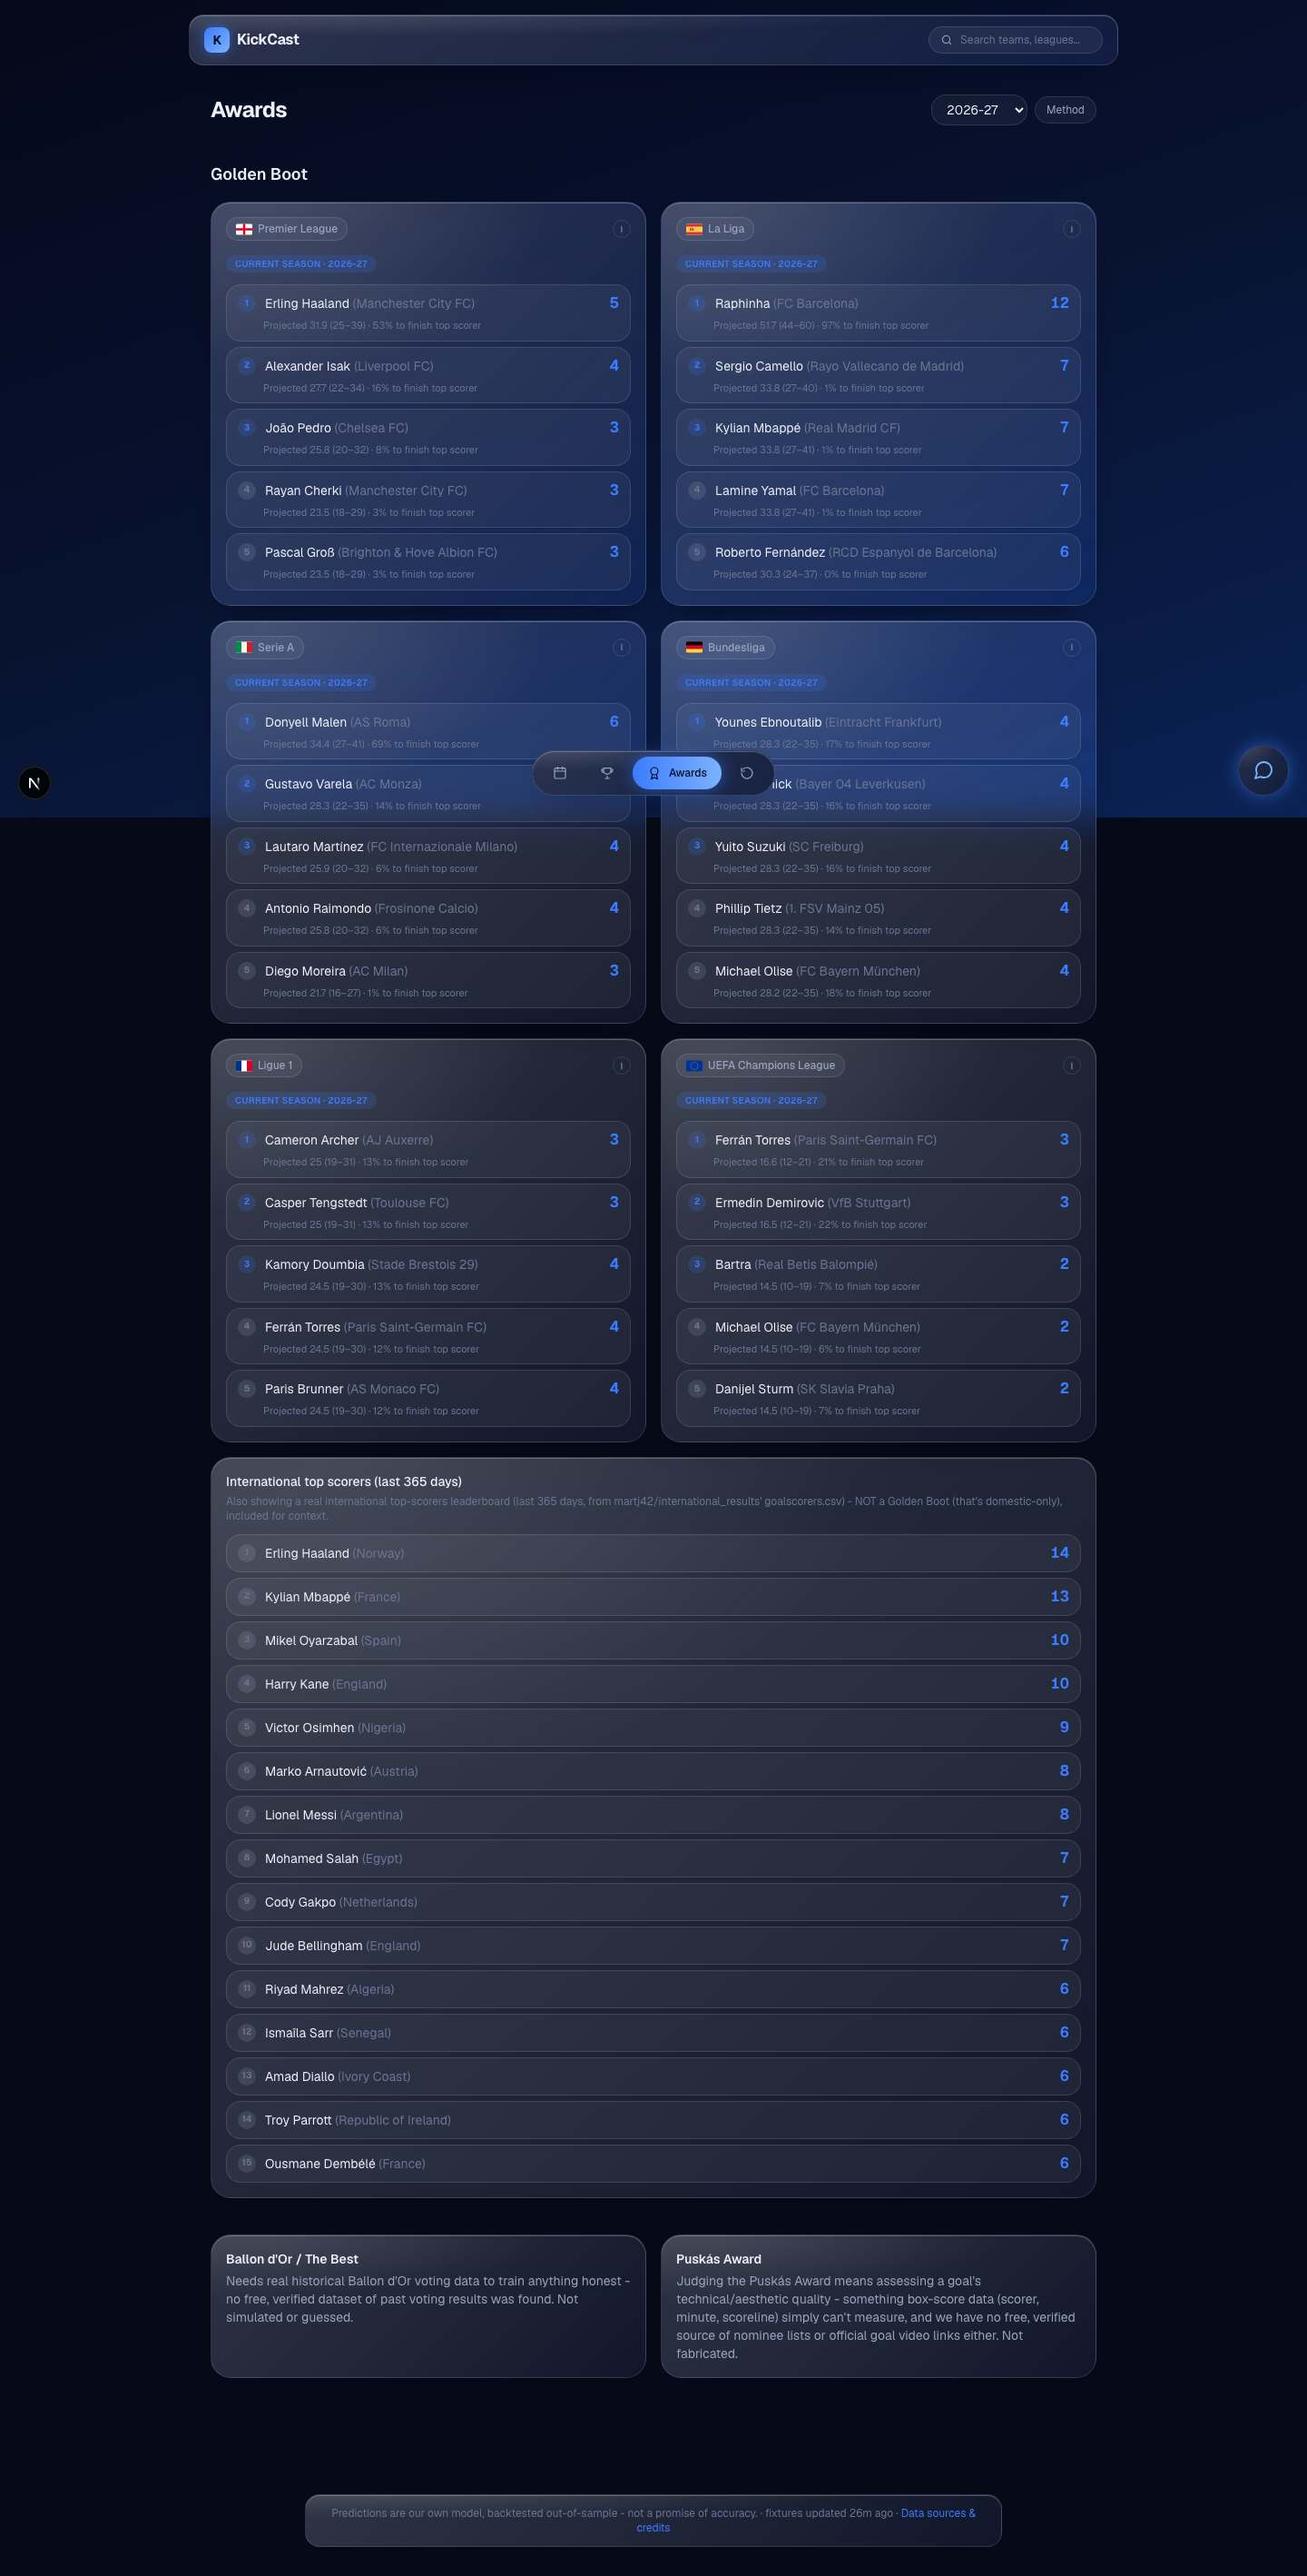
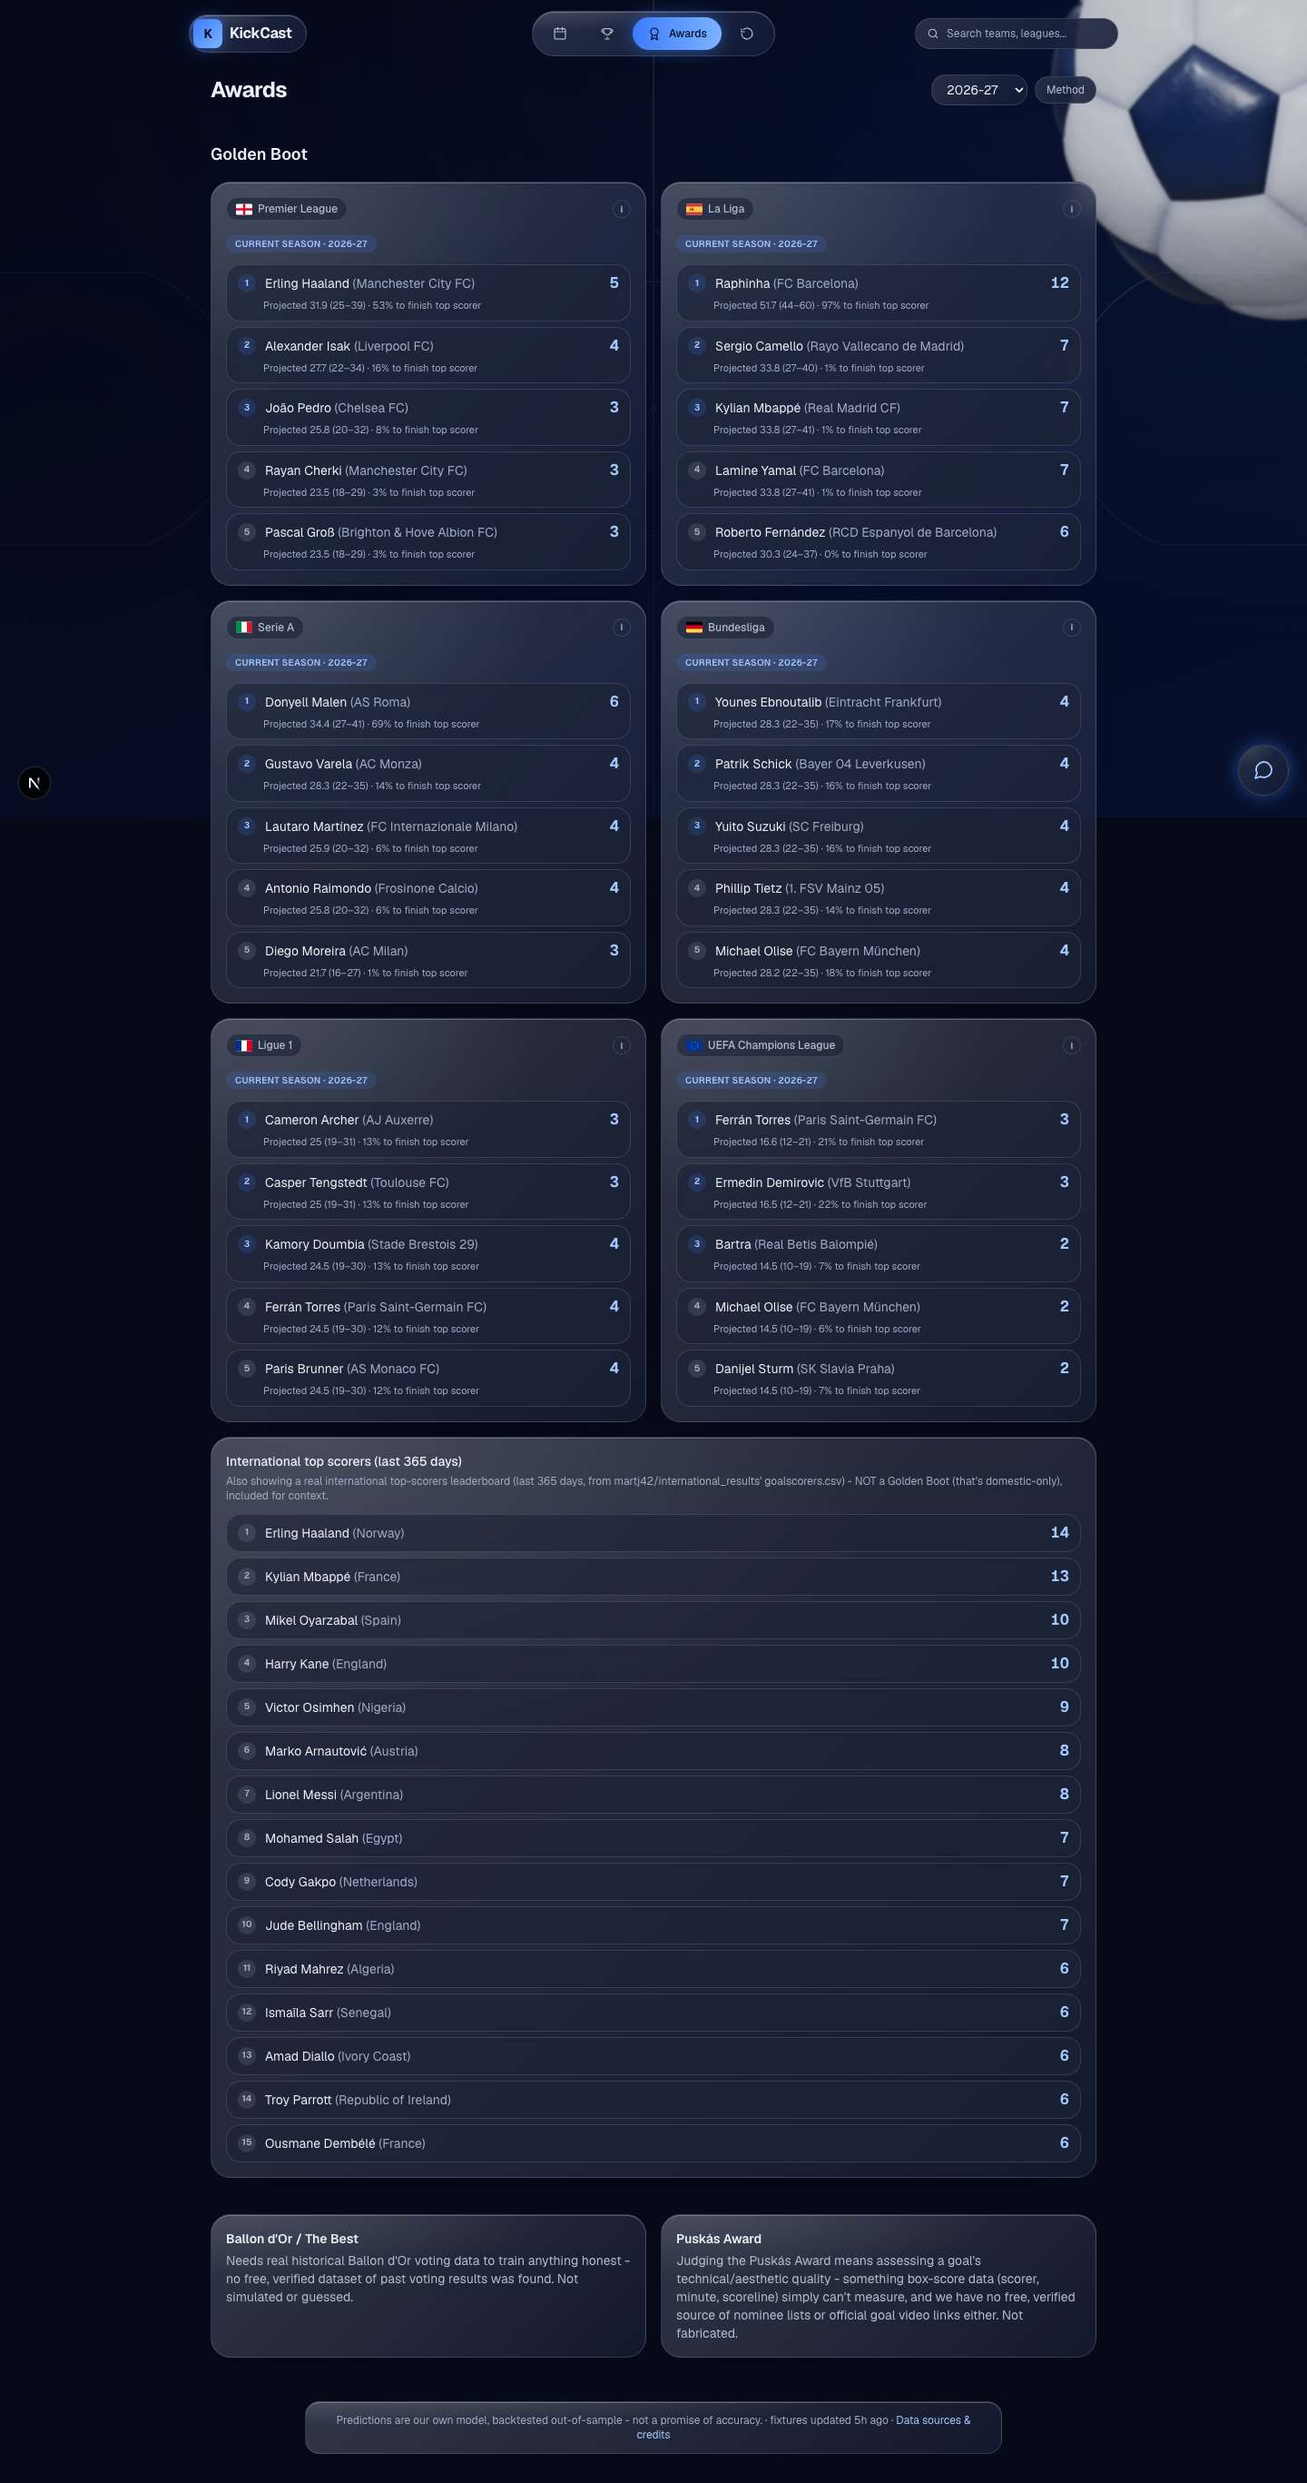
QA: refreshed screenshots with the 3D ball, hermetic replay tests, MORNING_REPORT session 6
- reports/screenshots regenerated on a real GPU (20 JPEGs, 1.95 MB): no overlap between
  the top bar, ball, cards and assistant bubble at 1440px or 375px.
- tests/test_replay.py: Gemini off by default (kickcast_api loads .env at import, so a real
  key made recap tests call the live API and fail intermittently).
- MORNING_REPORT.md: session 6 - measured fps, JS size, contrast numbers, caveats.

Changed region(s): [[0.0, 0.0, 1.0, 0.9949]]

diff --git a/tests/test_replay.py b/tests/test_replay.py
@@ -28,6 +28,14 @@ def _pred(home: float, draw: float, away: float) -> str:
     })
 
 
+@pytest.fixture(autouse=True)
+def _no_real_gemini(monkeypatch):
+    """kickcast_api loads .env at import, so a real GEMINI_API_KEY would make recap tests
+    call the live API (flaky, spends quota). Off by default; _enable_gemini turns it on
+    with a fake."""
+    monkeypatch.setattr(gemini_client, "available", lambda: False)
+
+
 @pytest.fixture
 def session(tmp_path):
     engine = create_engine(f"sqlite:///{tmp_path / 'replay.db'}")

diff --git a/MORNING_REPORT.md b/MORNING_REPORT.md
@@ -639,3 +639,61 @@ Method page says the method does not clearly beat naive.
 pytest 196 passed / 1 skipped; ruff clean; mypy only the 5 stub errors; frontend lint + build clean;
 vitest 47/47. Both dev servers restarted (API :8000, frontend :3000).
 Re-run the screenshots: `cd frontend && node scripts/screenshots.mjs`.
+
+---
+
+## Session 6 - 2026-09-28: top nav, outcome colours, real 3D ball
+
+Commits: `82375a2` (1 nav), `dd27d25` (2 colours), `b806e90` (3 ball), plus the final QA commit.
+
+### 1. Top nav
+Logo chip | glass pill | search, sticky at `top-3`; active item is the blue lens with its label, the rest icon-only
+with aria-labels. At 375px: K mark only, icon-only lens, search collapses to an icon that expands on tap. Dock
+padding removed, `scroll-pt-24` added, league picker stays inside the Leagues page. **Measured:** after
+scrolling 900px the pill's top is still 12px at both 1440px and 375px, and `scrollWidth` == viewport.
+Found on the way: `overflow-x: hidden` on both `html` and `body` had made `body` a scroll container, so
+`position: sticky` never worked - even the old header was not sticky. Now `overflow-x: clip`.
+
+### 2. Outcome colours
+`--out-home-*` blue, `--out-draw-*` amber, `--out-away-*` rose (from/to/glow) - one place to change them, used by the single
+`ProbabilityBar` on home, date view, league, team, match and assistant cards. Leader = full brightness + glow;
+the other two at 0.72 opacity; a dot legend "Finland 52% . Draw 27% . Belarus 22%" under every bar, plus an
+aria-label on the bar. **Contrast, sampled from real screenshots (`frontend/scripts/contrast.mjs`):**
+min blue 3.85:1, amber 6.51:1, rose 4.36:1 (target 3:1 for non-text UI); leader segments >= 6.0:1. The first version
+(0.62 opacity) measured 3.10:1 for blue, so it was eased.
+
+### 3. Real-time 3D ball (three.js 0.186.1, MIT)
+True truncated icosahedron (12 pentagons + 20 hexagons, 60 vertices, 90 equal edges - unit tested), inflated
+panels, recessed seams, MeshPhysicalMaterial with procedural leather bump, clearcoat, navy embossed pentagons,
+RoomEnvironment reflections, cool key + blue rim light. Top-right, cropped, 0.05 rad/s, parallax, ~1.5px blur,
+vignette. **Guards:** dynamic import only at >=900px with reduced-motion off and Save-Data off; DPR <= 1.5; 30fps cap;
+paused when the tab is hidden, the ball is off screen or the page is scrolling; everything disposed on unmount;
+software rasterizers / WebGL failure -> static `frontend/public/scene/ball.webp` (28.6 KB, rendered from the same
+ball by `scripts/render-ball-fallback.mjs`), same position and blur. Old SVG ball and its animation deleted.
+**Measured (`frontend/scripts/measure-fps.mjs`, home page at 1440px, glass cards on, 6s of wheel scrolling,
+Apple M3 Pro via ANGLE/Metal):** 59.8 fps with the ball vs 59.9 without (0.1 fps cost); 59.7 fps under 4x CPU
+throttle. Without a GPU the ball first cost scrolling down to **19.9 fps** (below your 50fps line); freezing it while
+scrolling gave 38 fps; refusing software renderers (they get the static ball) gives 59.6 fps.
+**Added JS:** one chunk, 540 KB raw / 132 KB gzip. Verified on the production build: fetched only at >=900px with motion allowed;
+375px, 899px and reduced-motion visits fetch only ball.webp; `/dev/ball` (the capture page) is a 404 in production.
+Caveat: all fps numbers are from one machine (a fast GPU); I did not test a real low-end GPU.
+
+### Contrast over the ball (text, real backdrop)
+Method: hide all text, screenshot, sample the pixels behind each text run, compare with its computed colour.
+The ball region initially failed WCAG AA badly (team odds panel 1.07:1, "Method" 1.96:1, hub tiles 2.3:1). Fixed with a
+dense base under `.glass`/`.glass-row`, dense bases for the few controls in the top-right corner, a lighter `--accent-text`,
+`--danger-text` and muted tokens, and moving the ball further into the corner. **Now 0 text runs below AA (4.5:1 normal / 3:1 large) on
+home, team, match, leagues, league, replay and awards** (lowest 4.77:1 on awards).
+
+### Bugs found by looking/measuring this session
+- The page gradient on `body` painted over the fixed scene layer once `html` got a background last session, so the ball,
+  orbs and pitch lines were all invisible - moved the gradient to `html`.
+- `for path in ...` in my shell loops clobbered zsh's `$PATH` (a tooling slip, not product code).
+- The replay recap tests were not hermetic: `.env` is loaded at import, so with quota available they made real Gemini
+  calls and one failed intermittently. Gemini is now off by default in those tests (1.3s instead of 5.5s).
+
+### Checks
+pytest 196 passed / 1 skipped (Gemini live test skips on quota), ruff clean, mypy only the 5 pre-existing missing-stub errors
+(scipy, apscheduler), frontend lint + build clean, vitest 59/59, screenshots (20, 1.95 MB, `reports/screenshots/`) show
+no overlap between the top bar, ball, cards and assistant bubble at 1440px and 375px. Dev servers restarted (API :8000, web :3000).
+Re-run: `cd frontend && node scripts/screenshots.mjs`, `node scripts/contrast.mjs`, `node scripts/measure-fps.mjs`.
